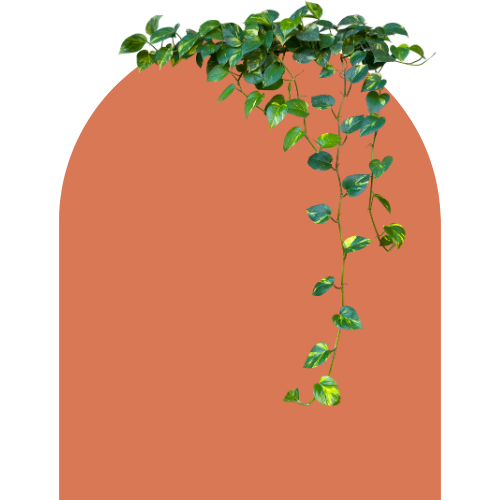
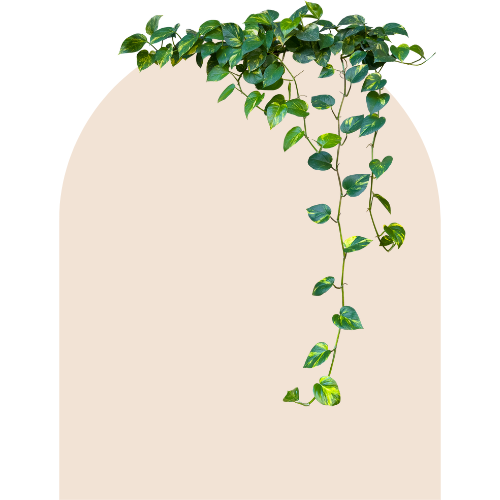
text over image

diff --git a/styles.css b/styles.css
@@ -19,6 +19,13 @@
   font-style: normal;
 }
 
+.open-sans-reg {
+  font-family: "Open Sans", sans-serif;
+  font-optical-sizing: auto;
+  font-style: normal;
+  font-variation-settings: "wdth" 100;
+}
+
 @font-face {
   font-family: "Montserrat exl";
   src: url("fonts/Montserrat-ExtraLight.ttf") format("truetype");
@@ -206,16 +213,35 @@ body {
 
 /* ABOUT */
 
+.mission,
+.promise,
+.story {
+  background-color: #f2e3d5;
+}
+
+.mission h5,
+.promise h5,
+.story h5 {
+  font-size: 24px;
+}
+
+.mission h6,
+.promise h6,
+.story h6 {
+  font-size: 20px;
+}
+
+.mission p,
+.promise p,
+.story p {
+  font-size: 14px;
+}
+
 .about {
   width: 100%;
   height: 80vh;
   background-color: #2c402f;
   border-color: #0a0d0b;
-}
-
-.about span {
-  color: #a64b29;
-  font-family: "the seasons bold";
 }
 
 .about-container {
@@ -231,12 +257,9 @@ body {
   display: flex;
   position: relative;
   margin: 10px;
-  background-color: #fff;
   border-radius: 2em;
-
   justify-content: flex-end;
-  border-color: #0a0d0b;
-  box-shadow: 0 4px 8px rgba(0, 0, 0, 0.1);
+  box-shadow: 0px 4px 10px rgba(92, 112, 95, 0.3);
 }
 
 .story-text {
@@ -244,96 +267,110 @@ body {
   flex-direction: column;
   text-align: center;
   padding: 20px;
+  z-index: 2;
 }
 
 .story h5 {
+  font-family: "the seasons bold";
+  color: #734432;
+  padding-left: 20px;
+  padding-right: 20px;
+  padding-top: 10px;
+}
+
+.story h6 {
   font-family: "theseasons";
   color: #a64b29;
   padding-left: 20px;
   padding-right: 20px;
-  padding-top: 20px;
-  font-size: 24px;
 }
 
 .story p {
   font-family: "montserrat";
-  color: #0a0d0b;
+  color: #40241e;
   padding-left: 20px;
   padding-right: 20px;
-  font-size: 18px;
+}
+
+.potted-plant {
+  position: absolute;
+  top: 70px;
+  left: -90px;
+  z-index: 1;
+}
+
+.potted-plant img {
+  width: 100%;
+  max-width: 400px;
 }
 
 .promise {
   display: flex;
   flex-direction: column;
   align-items: center;
-  background-color: #fff;
   border-radius: 2em;
   height: auto;
   margin: 10px;
   padding: 20px;
   text-align: center;
-  border-color: #0a0d0b;
-  box-shadow: 0 4px 8px rgba(0, 0, 0, 0.1);
+  box-shadow: 0px 4px 10px rgba(92, 112, 95, 0.3);
 }
 
 .promise h5 {
+  font-family: "the seasons bold";
+  color: #734432;
+  padding-left: 20px;
+  padding-right: 20px;
+  padding-top: 10px;
+}
+
+.promise h6 {
   font-family: "theseasons";
   color: #a64b29;
   padding-left: 20px;
   padding-right: 20px;
-  padding-top: 20px;
-  font-size: 24px;
 }
 
 .promise p {
   font-family: "montserrat";
-  color: #0a0d0b;
+  color: #40241e;
   padding-left: 20px;
   padding-right: 20px;
-  font-size: 18px;
 }
 
 .mission {
   display: flex;
   flex-direction: column;
   align-items: center;
-  background-color: #fff;
   border-radius: 2em;
   height: auto;
   margin: 10px;
   padding: 20px;
-  border-color: #0a0d0b;
-  box-shadow: 0 4px 8px rgba(0, 0, 0, 0.1);
+  box-shadow: 0px 4px 10px rgba(92, 112, 95, 0.3);
   text-align: center;
 }
 
 .mission h5 {
-  font-family: "theseasons";
-  color: #a64b29;
+  font-family: "the seasons bold";
+  color: #734432;
   padding-left: 20px;
   padding-right: 20px;
-  padding-top: 20px;
-  font-size: 24px;
+  padding-top: 10px;
+}
+
+.mission h6 {
+  font-family: "theseasons";
+  color: #a64b29;
+
+  padding-left: 20px;
+  padding-right: 20px;
 }
 
 .mission p {
   font-family: "montserrat";
-  color: #0a0d0b;
+  color: #40241e;
   padding-left: 20px;
   padding-right: 20px;
-  font-size: 18px;
-}
-
-.potted-plant {
-  position: absolute;
-  top: 80px;
-  left: -100px;
-}
-
-.potted-plant img {
-  width: 100%;
-  max-width: 470px;
 }
 
 /* CARE */
@@ -344,30 +381,36 @@ body {
   padding-bottom: 50px;
 }
 
-.care img {
-}
-
 .our-team {
+  display: flex;
+  align-items: stretch;
   position: relative;
 }
 
+.our-team img {
+  width: 100%;
+  height: 100%;
+  object-fit: cover;
+}
+
 .our-team-text {
+  width: 40%;
   position: absolute;
-  top: 130px;
-  left: 80px;
-  object-fit: contain;
+  left: 50%;
+  top: 40%;
+  transform: translate(-50%, -50%);
 }
 
 .our-team-text span {
   font-size: 40px;
-  font-family: "montserrat bold";
+  font-family: "lora medium";
 }
 
 .our-team-text p {
-  color: #fff;
-  font-family: "montserrat";
-  text-align: left;
-  font-size: 17px;
+  color: #40241e;
+  font-family: "lora";
+  text-align: center;
+  font-size: 20px;
 }
 
 .splide__slide > img {

diff --git a/index.html b/index.html
@@ -32,8 +32,10 @@
       crossorigin="anonymous"
     />
     <!-- GOOGLE FONT -->
+    <link rel="preconnect" href="https://fonts.googleapis.com" />
+    <link rel="preconnect" href="https://fonts.gstatic.com" crossorigin />
     <link
-      href="https://fonts.googleapis.com/css2?family=Lora:wght@400;700&display=swap"
+      href="https://fonts.googleapis.com/css2?family=Lora:ital,wght@0,400..700;1,400..700&family=Montserrat:ital,wght@0,100..900;1,100..900&family=Open+Sans:ital,wght@0,300..800;1,300..800&display=swap"
       rel="stylesheet"
     />
     <!-- SPLIDE -->
@@ -111,11 +113,8 @@
           <div class="text-row row">
             <div class="story col-5">
               <div class="story-text col-12 col-md-7">
-                <h5>
-                  <span>Our Story:</span>
-                  Passion for all things green and a desire to bring nature into
-                  every home
-                </h5>
+                <h5>OUR STORY</h5>
+                <h6>A Passion For All Things Green</h6>
                 <p>
                   We understand finding the time to visit garden centers or
                   nurseries can be challenging. That’s why we created
@@ -127,17 +126,15 @@
               </div>
               <div class="potted-plant">
                 <img
-                  src="images/angel-plant.png"
+                  src="images/2.png"
                   alt="Angel plant in plastic green pot"
                   loading="eager"
                 />
               </div>
             </div>
             <div class="promise col-12 col-md-3">
-              <h5>
-                <span>Our Promise:</span>
-                Fresh, Healthy Plants Delivered to Your Doorstep
-              </h5>
+              <h5>OUR PROMISE</h5>
+              <h6>Healthy Plants Delivered to Your Doorstep</h6>
               <p>
                 We source the healthiest plants directly from trusted nurseries
                 and deliver them straight to your door. With BloomHouse, you can
@@ -148,10 +145,8 @@
               </p>
             </div>
             <div class="mission col-12 col-md-3">
-              <h5>
-                <span>Our Mission:</span>
-                To help you grow your personal oasis
-              </h5>
+              <h5>OUR MISSION</h5>
+              <h6>To Bring Nature Into Every Home</h6>
               <p>
                 At BloomHouse, our mission is simple: We’re committed to
                 providing you with healthy, vibrant plants and the knowledge you
@@ -166,16 +161,21 @@
       </div>
       <!--CARE -->
       <section class="care" role="care">
-        <div class="our-team col-3">
-          <img src="images/vine-arch.png" alt="vine on arch" loading="eager" />
-          <div class="our-team-text col-5">
+        <div class="our-team col-4">
+          <img
+            src="images/differentsize.png"
+            alt="vine on arch"
+            loading="eager"
+          />
+          <!--
+          <div class="our-team-text">
             <p>
               <span>O</span>ur team of dedicated plant experts meticulously
               nurtures each plant before it reaches your doorstep. With a
               passion for greenery and years of experience, we ensure every
               plant is healthy, vibrant, and ready to thrive in its new home.
             </p>
-          </div>
+          </div> -->
         </div>
         <div class="container">
           <div
